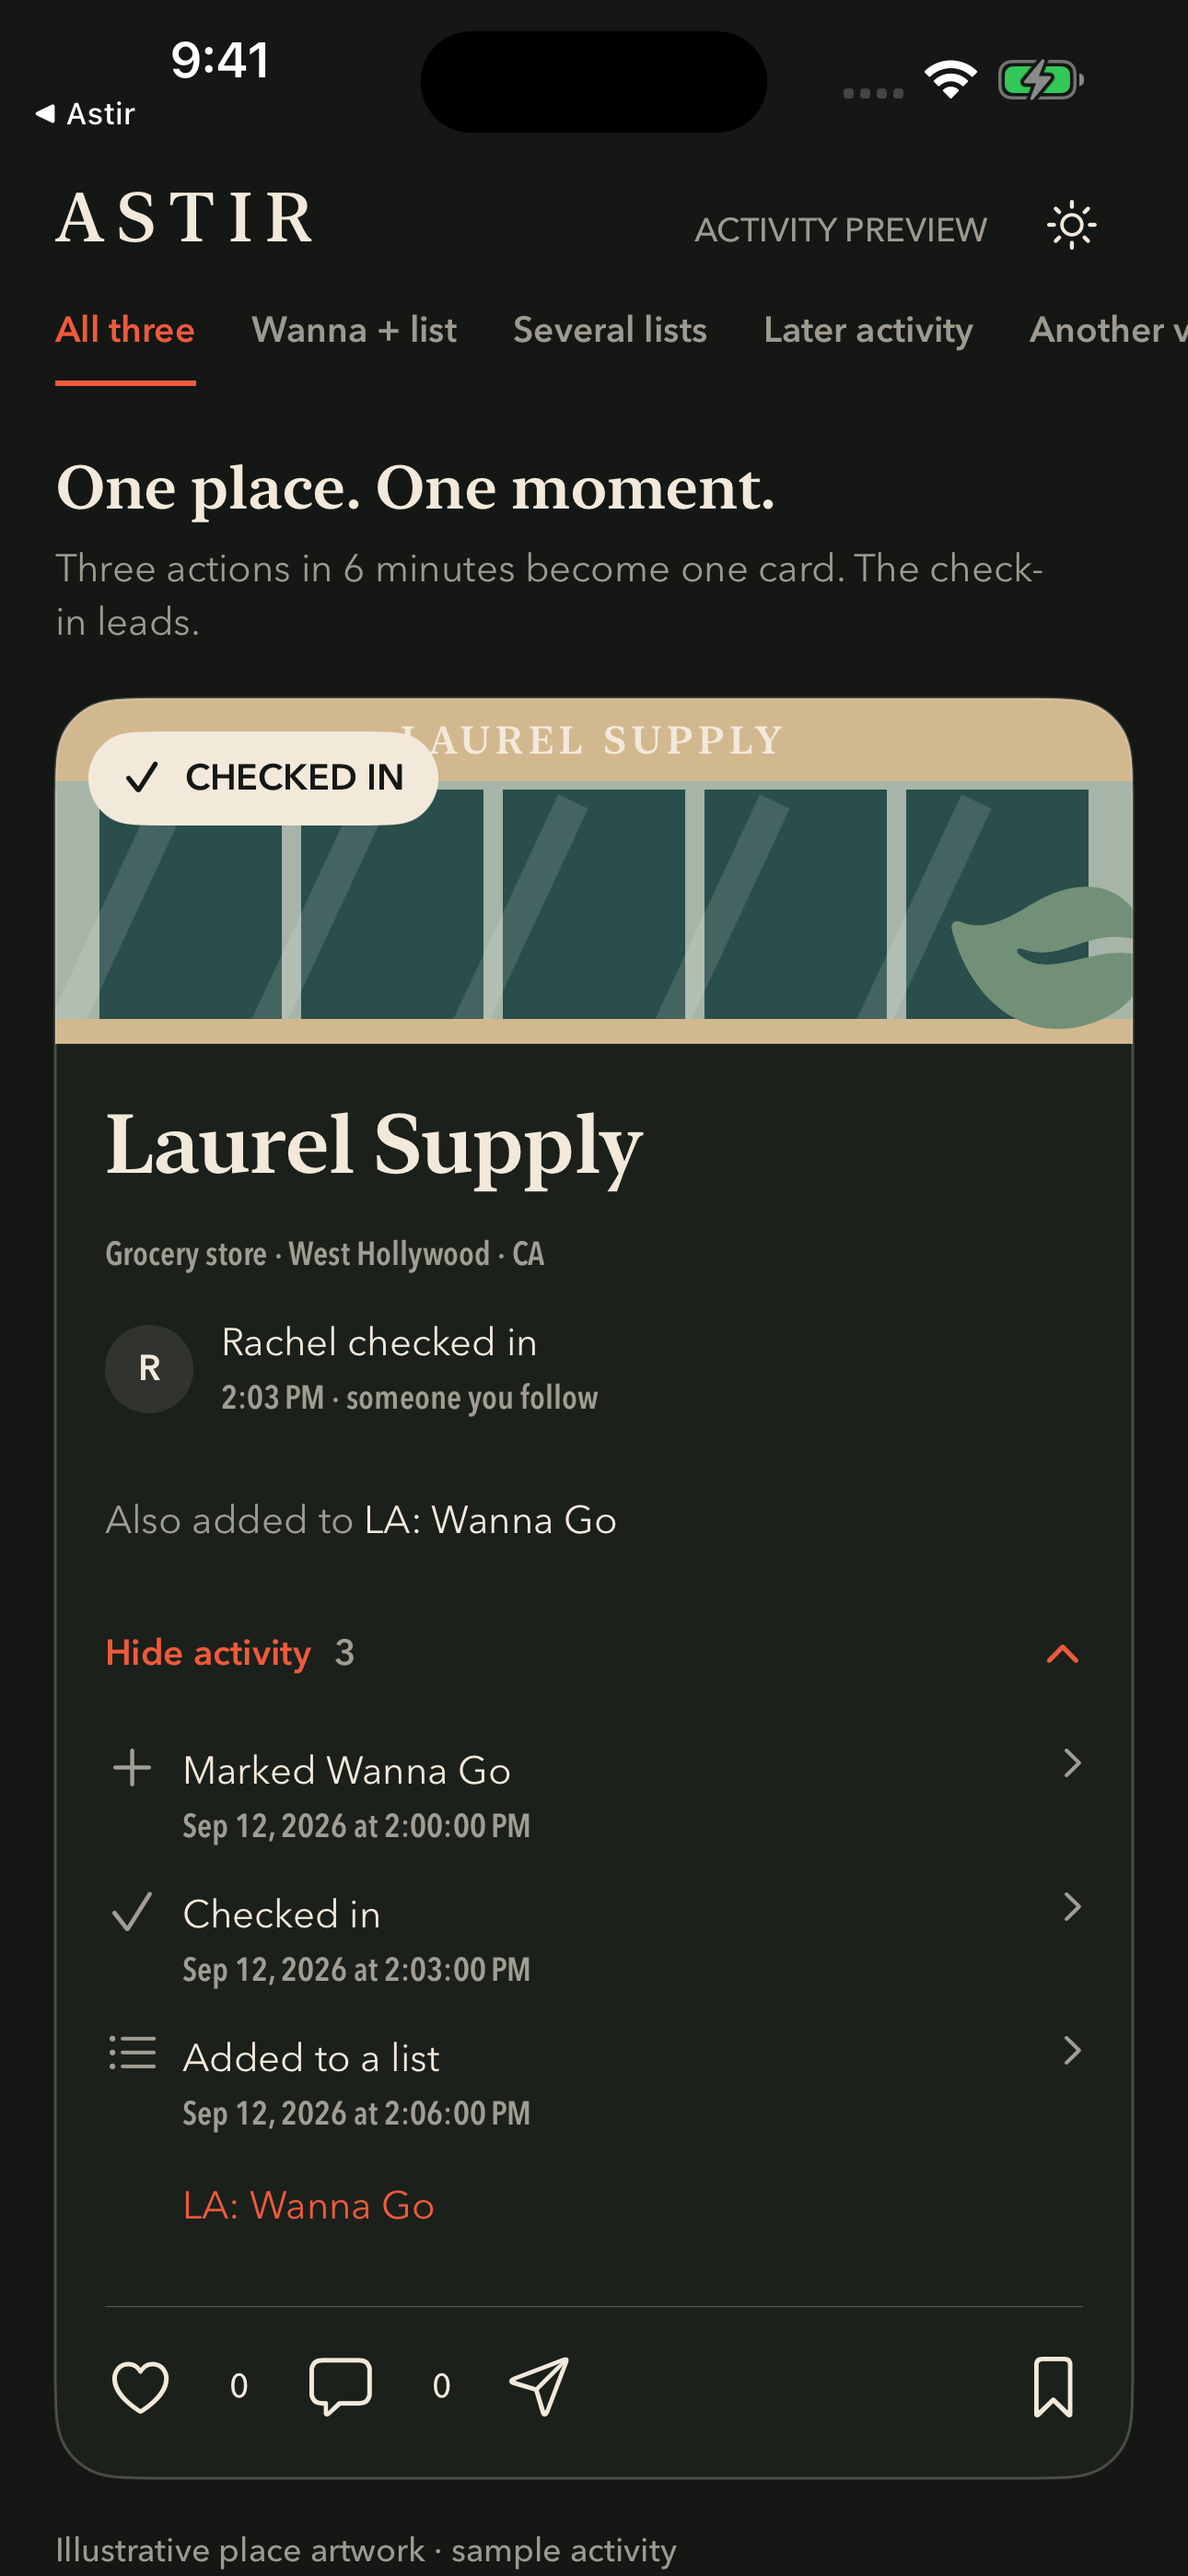
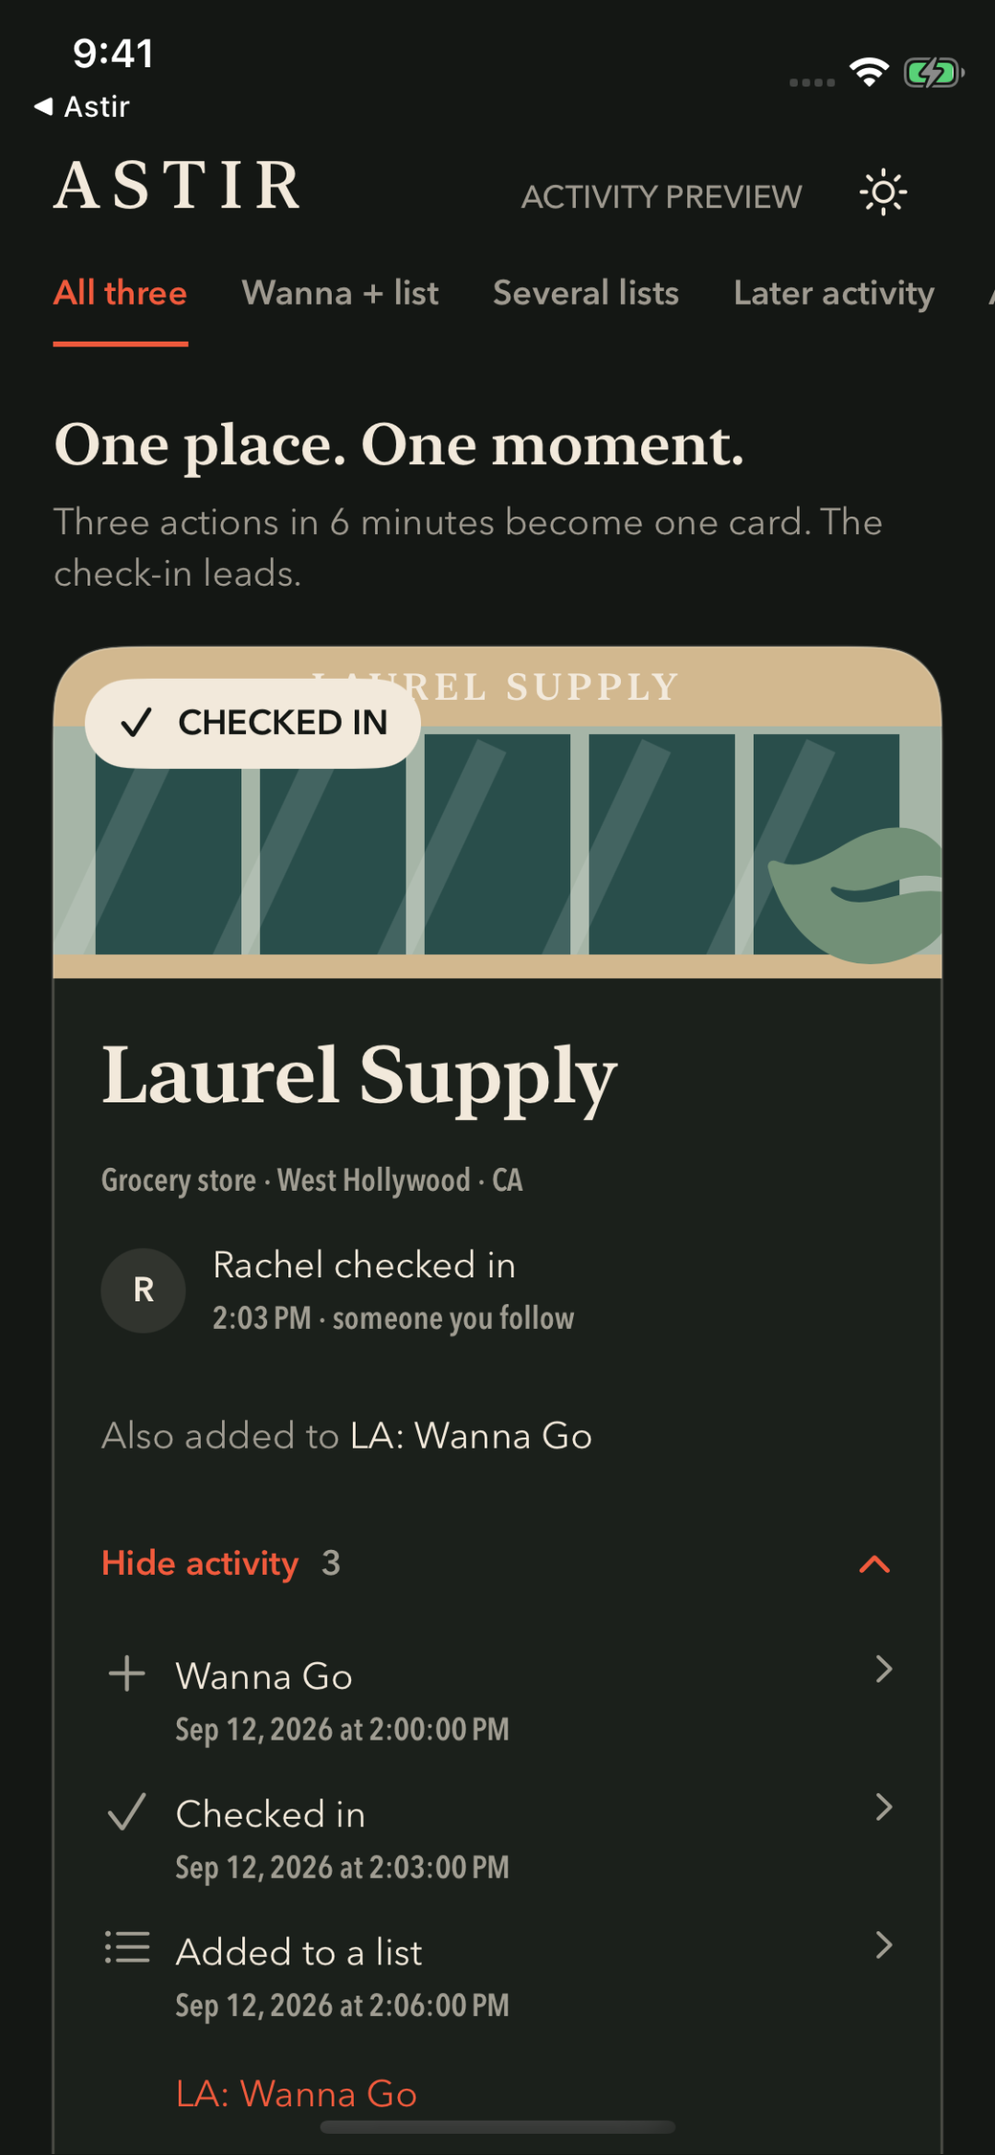
fix(REC-494): shorten activity label to Wanna Go

diff --git a/Wander/Features/Feed/FeedActivityDisclosure.swift b/Wander/Features/Feed/FeedActivityDisclosure.swift
@@ -120,7 +120,7 @@ private extension FeedActivity {
     var sequenceTitle: String {
         switch kind {
         case .placeBeen: "Checked in"
-        case .placeWannaGo: "Marked Wanna Go"
+        case .placeWannaGo: "Wanna Go"
         case .listItemAdded: "Added to a list"
         case .listCreated: "Created a list"
         case .placeSaved: "Saved a place"
